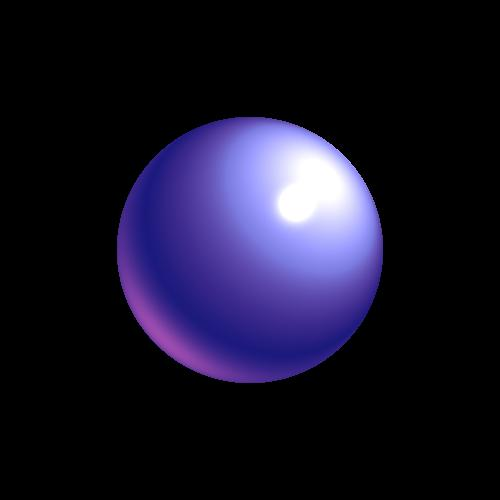
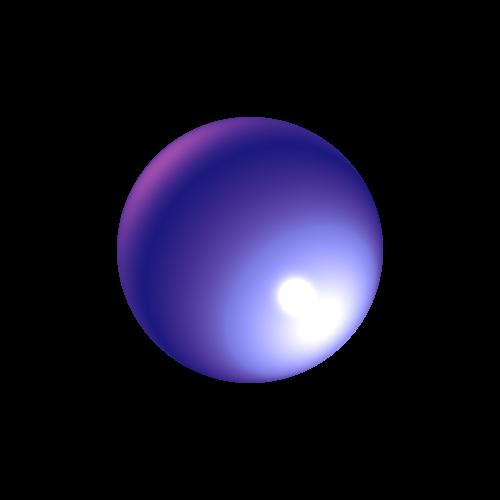
18.06.2017

Changed region(s): [[0.24, 0.24, 0.78, 0.78]]

diff --git a/src/unitTest/Render_Lights_Tests.java b/src/unitTest/Render_Lights_Tests.java
@@ -69,7 +69,27 @@ public class Render_Lights_Tests {
 	}
 	
 	@Test
-	public void testRenderImage3(){
+	public void testRenderImage3() {
+
+		Scene scene = new Scene();
+		Sphere sphere = new Sphere(800, new Point3D(0.0, 0.0, -1000));
+		sphere.set_nShininess(20);
+		sphere.set_emmission(new Color(0, 0, 100));
+		scene.addGeometry(sphere);
+		scene.addLight(new SpotLight(new Color(255, 100, 100), new Point3D(-200, -200, -100), new Vector(2, 2, -3), 0,
+				0.00001, 0.000005));
+
+		ImageWriter imageWriter = new ImageWriter("3.Spot Light Test 2", 500, 500, 500, 500);
+
+		Render render = new Render(imageWriter, scene);
+
+		render.renderImage();
+		render.writeToImage();
+
+	}
+	
+	@Test
+	public void testRenderImage4(){
 
 		Scene scene = new Scene();
 		Sphere sphere = new Sphere(800, new Point3D(0.0, 0.0, -1000));
@@ -87,7 +107,7 @@ public class Render_Lights_Tests {
 
 		scene.addLight(new PointLight(new Color(255, 100, 100), new Point3D(200, 200, -100), 0, 0.000001, 0.0000005));
 
-		ImageWriter imageWriter = new ImageWriter("2.Point Light Test 3", 500, 500, 500, 500);
+		ImageWriter imageWriter = new ImageWriter("4.Point Light Test 3", 500, 500, 500, 500);
 
 		Render render = new Render(imageWriter, scene);
 
@@ -95,19 +115,27 @@ public class Render_Lights_Tests {
 		render.writeToImage();
 
 	}
-
+	
 	@Test
-	public void testRenderImage4() {
+	public void testRenderImage5(){
 
 		Scene scene = new Scene();
 		Sphere sphere = new Sphere(800, new Point3D(0.0, 0.0, -1000));
 		sphere.set_nShininess(20);
 		sphere.set_emmission(new Color(0, 0, 100));
-		scene.addGeometry(sphere);
-		scene.addLight(new SpotLight(new Color(255, 100, 100), new Point3D(-200, -200, -100), new Vector(2, 2, -3), 0,
-				0.00001, 0.000005));
 
-		ImageWriter imageWriter = new ImageWriter("3.Spot Light Test 1", 500, 500, 500, 500);
+		Triangle triangle = new Triangle(new Point3D(3500, 3500, -2000), new Point3D(-3500, -3500, -1000),
+				new Point3D(3500, -3500, -2000));
+
+		Triangle triangle2 = new Triangle(new Point3D(3500, 3500, -2000), new Point3D(-3500, 3500, -1000),
+				new Point3D(-3500, -3500, -1000));
+
+		scene.addGeometry(triangle);
+		scene.addGeometry(triangle2);
+
+		scene.addLight(new SpotLight(new Color(255, 100, 100), new Point3D(200, 200, -100), new Vector(0, 0, -1), 0, 0.000001, 0.0000005));
+
+		ImageWriter imageWriter = new ImageWriter("5.Spot Light Test 3", 500, 500, 500, 500);
 
 		Render render = new Render(imageWriter, scene);
 
@@ -115,4 +143,6 @@ public class Render_Lights_Tests {
 		render.writeToImage();
 
 	}
+	
+	
 }

diff --git a/src/elements/SpotLight.java b/src/elements/SpotLight.java
@@ -14,25 +14,27 @@ public class SpotLight extends PointLight {
 		this._direction = new Vector(direction);
 	}
 
+	//get the vector from the source light to the point the we calculate
 	@Override
 	public Vector getL(Point3D point) {
-		Vector vector = new Vector(this._position, point);
-		vector.normalize();
-		return vector;
-		// return super.getL(point);
+		 return super.getL(point);
 	}
 
+	//we implement the Light source operation, get the intensity of the direction light
 	@Override
 	public Color getIntensity(Point3D point) {
+		
 		double distance = point.distance(_position);
-		// calculate direction dot product L
-		double tmp = _direction.dotProduct(getL(point));
+		Color _pointColor= this.getIntensity();
+		Vector L = new Vector(getL(point));
+	    L.normalize();
+		double tmp = Math.abs(_direction.dotProduct(L));
 
 		tmp = tmp / (_Kc + distance * _Kl + distance * distance * _Kq);
 
-		int _red = Math.min((int) (_color.getRed() / tmp), 255);
-		int _green = Math.min((int) (_color.getGreen() / tmp), 255);
-		int _blue = Math.min((int) (_color.getBlue() / tmp), 255);
+		int _red = Math.min((int) (_pointColor.getRed() * tmp), 255);
+		int _green = Math.min((int) (_pointColor.getGreen()* tmp), 255);
+		int _blue = Math.min((int) (_pointColor.getBlue() * tmp), 255);
 
 		return new Color(_red, _green, _blue);
 	}

diff --git a/src/elements/Camera.java b/src/elements/Camera.java
@@ -23,7 +23,7 @@ public class Camera {
 		this._P0 = new Point3D(camera._P0);
 		this._vUp = new Vector(camera._vUp);
 		this._vTo = new Vector(camera._vTo);
-		this._vRight = new Vector(this._vTo.crossProduct(_vUp));
+		this._vRight = new Vector(_vUp.crossProduct(_vTo));
 	}
 
 	// full cons
@@ -32,7 +32,7 @@ public class Camera {
 		this._P0 = new Point3D(P0);
 		this._vUp = new Vector(vUp);
 		this._vTo = new Vector(vTo);
-		this._vRight = new Vector(this._vTo.crossProduct(_vUp));
+		this._vRight = new Vector(_vUp.crossProduct(_vTo));
 	}
 
 	// getter
@@ -55,12 +55,12 @@ public class Camera {
 	// setters
 	public void set_vUp(Vector vUp) {
 		this._vUp = new Vector(vUp);
-		this._vRight = this._vTo.crossProduct(_vUp);
+		this._vRight = _vUp.crossProduct(_vTo);
 	}
 
 	public void set_vTo(Vector vTo) {
 		this._vTo = new Vector(vTo);
-		this._vRight = this._vTo.crossProduct(_vUp);
+		this._vRight = _vUp.crossProduct(_vTo);
 	}
 
 	public void setP0(Point3D P0) {

diff --git a/src/elements/DirectionalLight.java b/src/elements/DirectionalLight.java
@@ -19,24 +19,29 @@ public class DirectionalLight extends Light implements LightSource {
 		this.direction = new Vector(direction);
 	}
 
+	//get intensity 
 	@Override
 	public Color getIntensity() {
 		return new Color(this._color.getRGB());
 	}
 
+	//get direction
 	public Vector getDirection() {
 		return new Vector(this.direction);
 	}
 
+	//set direction
 	public void setDirection(Vector direction) {
 		this.direction = new Vector(direction);
 	}
 
+	//we implement the Light source operation, get the intensity of the direction light
 	@Override
 	public Color getIntensity(Point3D point) {
 		return new Color(_color.getRGB());
 	}
 
+	//get the vector from the source light to the point the we calculate
 	@Override
 	public Vector getL(Point3D point) {
 		return new Vector(point); // the sun for example is too far

diff --git a/src/elements/PointLight.java b/src/elements/PointLight.java
@@ -17,18 +17,21 @@ public class PointLight extends Light implements LightSource {
 		this._position = position;
 	}
 
+	//get intensity color 
 	@Override
 	public Color getIntensity() {
 		return new Color(this._color.getRGB());
 	}
 
+	//get the vector from the source light to the point the we calculate
 	@Override
 	public Vector getL(Point3D point) {
 		Vector vector = new Vector(this._position, point);
+		
 		vector.normalize();
 		return vector;
 	}
-
+	//we implement the Light source operation, get the intensity of the direction light
 	@Override
 	public Color getIntensity(Point3D point) {
 		double distance = point.distance(_position);

diff --git a/src/scene/Scene.java b/src/scene/Scene.java
@@ -101,11 +101,13 @@ public class Scene {
 		return _geometries.iterator();
 	}
 
+	//add new light to the container 
 	public void addLight(LightSource light) {
 		_lights.add(light);
 
 	}
 
+	//get iterator for the light source container
 	public Iterator<LightSource> getLightsIterator() {
 		return _lights.iterator();
 	}

diff --git a/src/elements/LightSource.java b/src/elements/LightSource.java
@@ -6,6 +6,8 @@ import primitives.Point3D;
 import primitives.Vector;
 
 public interface LightSource {
+	
+	//abstract functions for source lights
 	public abstract Color getIntensity(Point3D point);
 
 	public abstract Vector getL(Point3D point);
